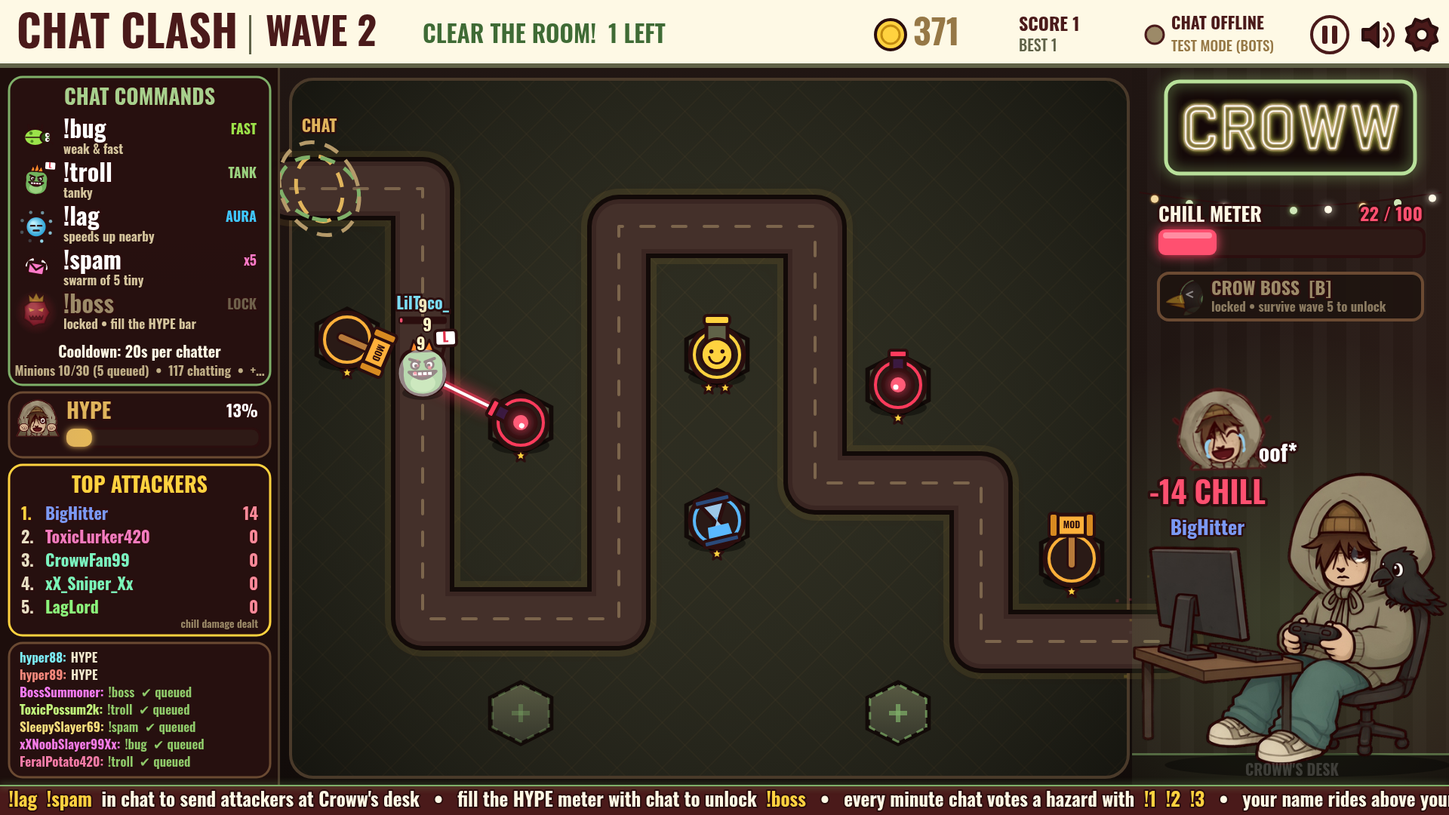
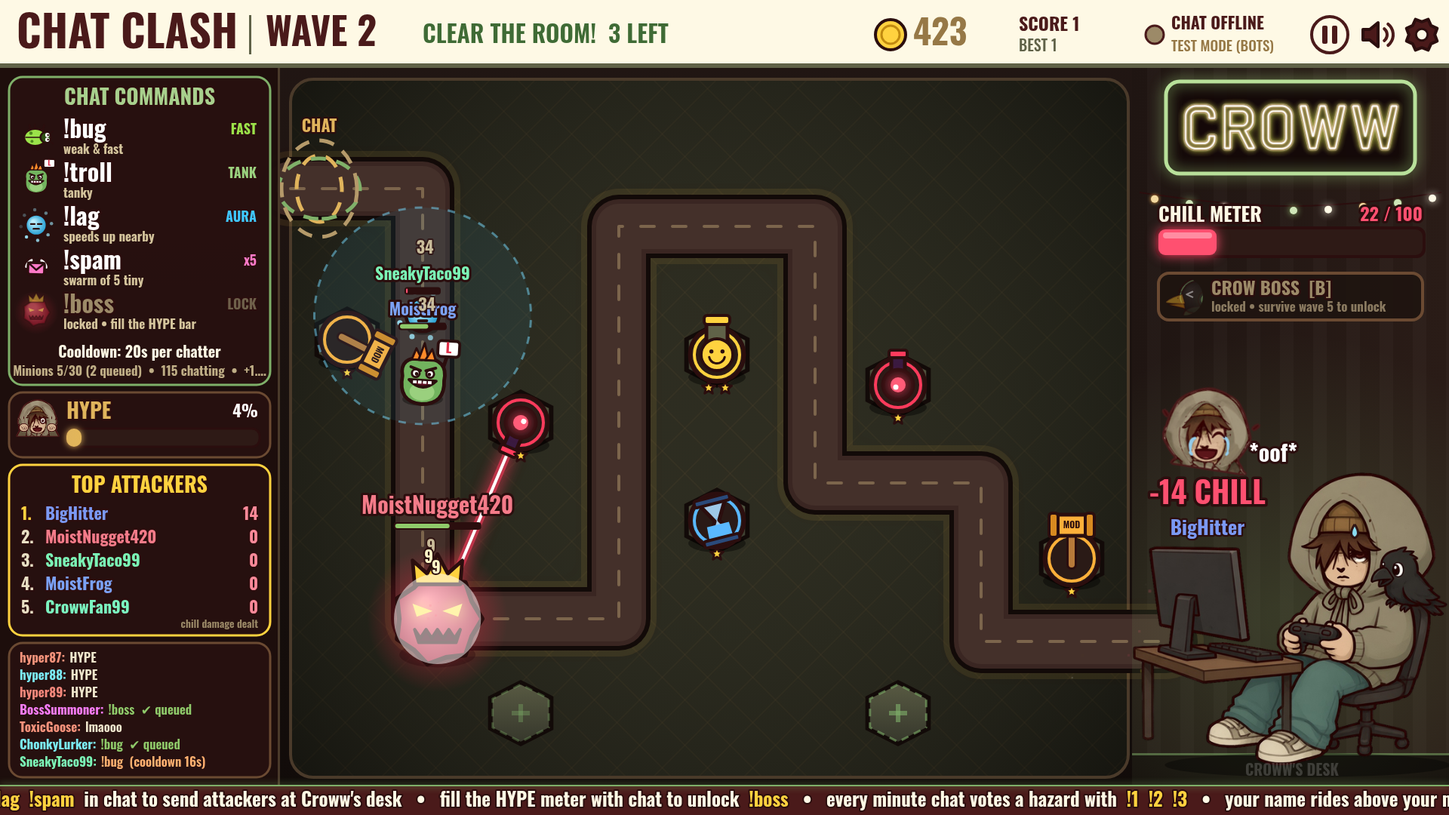
Small chat mode: scale cooldown, command power and hype by active chatters
Reuses the active-chatter count / Small chat mode setting (boost k fades out by 8 chatters):
- per-chatter cooldown 20s -> 7s at 0-3 chatters (never above the Settings value)
- chat commands: !spam up to 8 minions, troll up to +60% HP, bug/lag +40%, spam +30%
- hype gain up to 5x and decay up to 70% slower so !boss is reachable with 1-3 chatters
- SMALL CHAT BOOST % badge on the HUD; !spam count/cooldown shown live
- vote banner shows the vote count (one vote decides / random pick with none: already existed)
- tools/smallchat-sim.js: run length, !boss reachability and vote outcomes at 0/1/3/15 chatters

diff --git a/index.html b/index.html
@@ -73,6 +73,8 @@ const DATA = {
     // small-chat boost: fewer chatters = fewer chat enemies to farm, so the trickle (and a little kill gold) scales up.
     // boost k = 1 at 0 active chatters, fading linearly to 0 at smallChatFull chatters.
     smallChatFull: 8, smallTrickleBonus: 1.5, smallKillBonus: 0.1, activeWindow: 120 },
+  // small-chat scaling of chat power (k = small-chat boost 0..1, same k as the gold boost)
+  smallChat: { cooldown: 7, cooldownCurve: 1.6, hpBoost: { bug: 0.4, troll: 0.6, lag: 0.4, spam: 0.3 }, spamExtra: 3, hypeGain: 4, hypeDecayCut: 0.7 },
   chill: { max: 100, regenOnClear: 6 },
   wave: { firstBuild: 15, build: 12, baseDuration: 20, perWave: 2, maxDuration: 45, hpScale: 0.13, speedScale: 0.012 },
   difficulty: {
@@ -299,11 +301,12 @@ function defeat() {
 }
 
 /* ===================================================================== enemies */
-function spawnEnemy(type, user, isBot, src) {
-  const D = DATA.enemies[type], n = D.count || 1;
-  const hpM = (1 + DATA.wave.hpScale * (G.wave - 1)) * diff().hp, spM = 1 + DATA.wave.speedScale * (G.wave - 1);
+function spawnEnemy(type, user, isBot, src, boost) {
+  boost = boost || 0;   // small-chat boost for chat commands: tougher enemies, more !spam minions
+  const D = DATA.enemies[type], n = type === 'spam' ? spamCount(boost) : (D.count || 1);
+  const hpM = (1 + DATA.wave.hpScale * (G.wave - 1)) * diff().hp * (1 + (DATA.smallChat.hpBoost[type] || 0) * boost), spM = 1 + DATA.wave.speedScale * (G.wave - 1);
   for (let i = 0; i < n; i++) {
-    G.enemies.push({ id: ++G.eid, type, user, isBot, src: src || (isBot ? 'npc' : 'chat'), lead: i === 0, n, hp: D.hp * hpM, maxHp: D.hp * hpM, speed: D.speed * spM * rand(0.95, 1.05), d: -i * 26 - 10, x: -99, y: -99, ang: 0, r: D.r,
+    G.enemies.push({ id: ++G.eid, type, user, isBot, boosted: boost > 0.05, src: src || (isBot ? 'npc' : 'chat'), lead: i === 0, n, hp: D.hp * hpM, maxHp: D.hp * hpM, speed: D.speed * spM * rand(0.95, 1.05), d: -i * 26 - 10, x: -99, y: -99, ang: 0, r: D.r,
       slowT: 0, slowAmt: 0, flash: 0, dead: false, cur: D.speed, wob: Math.random() * 10, dmgAcc: 0 });
   }
   if (!isBot) { stat(G.waveStats, user).spawns++; stat(G.session, user).spawns++; }
@@ -351,18 +354,19 @@ function tryCommand(user, type, src) {
   if (type === 'boss' && !G.bossReady) { addFeed(user, '!boss  (locked - hype ' + Math.floor(G.hype) + '%)', 'lock'); return; }
   const n = DATA.enemies[type].count || 1;
   if (chatLoad() + n > settings.globalCap && type !== 'boss') { addFeed(user, '!' + type + '  (room is full!)', 'cap'); return; }
-  cooldowns[key] = now + settings.userCooldown;
+  cooldowns[key] = now + effCooldown();
   if (type === 'boss') { G.bossReady = false; G.hype = 0; }
   else addHype(DATA.chat.hypePerCmd);
   const live = G.phase === 'wave' && G.waveT < G.waveDur;
-  if (live) { spawnEnemy(type, user, false, src); G.aiBudget = Math.max(0, G.aiBudget - DATA.enemies[type].cost * DATA.ai.chatDiscount); }
-  else G.chatQueue.push({ type, user, src });
+  const boost = type === 'boss' ? 0 : smallChatK();
+  if (live) { spawnEnemy(type, user, false, src, boost); G.aiBudget = Math.max(0, G.aiBudget - DATA.enemies[type].cost * DATA.ai.chatDiscount); }
+  else G.chatQueue.push({ type, user, src, boost });
   addFeed(user, '!' + type + (live ? '  \u2714 sent' : '  \u2714 queued'), 'ok');
   SFX.play('chat');
 }
 function addHype(v) {
   if (!G || G.bossReady || G.phase === 'results' || G.phase === 'defeat') return;
-  G.hype = Math.min(DATA.chat.hypeMax, G.hype + v);
+  G.hype = Math.min(DATA.chat.hypeMax, G.hype + v * hypeGainMult());
   if (G.hype >= DATA.chat.hypeMax) { G.bossReady = true; banner('BOSS UNLOCKED', 'first chatter to type !boss summons it', '#ff4060', 3, 'crowwHype'); SFX.play('unlock'); }
 }
 
@@ -391,6 +395,9 @@ function smallChatK(n) {
   if (settings.smallChat === 'on') return 1;
   return clamp(1 - (n == null ? activeChatters() : n) / DATA.economy.smallChatFull, 0, 1);
 }
+function effCooldown(k) { k = k == null ? smallChatK() : k; const base = settings.userCooldown; return Math.round(Math.min(base, lerp(base, DATA.smallChat.cooldown, clamp(k * DATA.smallChat.cooldownCurve, 0, 1)))); }  // 7s at 0-3 chatters, back to the setting by 8
+function hypeGainMult(k) { return 1 + DATA.smallChat.hypeGain * (k == null ? smallChatK() : k); }
+function spamCount(k) { return DATA.enemies.spam.count + Math.round(DATA.smallChat.spamExtra * k); }
 function goldPerSec(n) { return DATA.economy.trickle + DATA.economy.smallTrickleBonus * smallChatK(n); }
 function killGoldMult(n) { return 1 + DATA.economy.smallKillBonus * smallChatK(n); }
 function onChat(user, text, src) {
@@ -424,7 +431,7 @@ function endVote() {
   const v = G.vote, mx = Math.max(...v.counts), best = [0, 1, 2].filter(i => v.counts[i] === mx), w = pick(best);
   const id = v.opts[w]; G.hazard = { id, t: DATA.vote.hazardDuration };
   const H = DATA.hazards[id];
-  banner(H.name + '!', (mx === 0 ? 'no votes - random pick: ' : 'chat voted: ') + H.desc, H.color, 3);
+  banner(H.name + '!', (mx === 0 ? 'no votes - random pick: ' : 'chat voted (' + v.counts.reduce((a, b) => a + b, 0) + ' vote' + (v.counts.reduce((a, b) => a + b, 0) === 1 ? '' : 's') + '): ') + H.desc, H.color, 3);
   SFX.play('vote'); G.vote = null;
 }
 
@@ -689,7 +696,7 @@ function update(dt) {
         spawnEnemy(ty, DATA.ai.name, true, 'npc'); G.aiBudget -= DATA.enemies[ty].cost; G.aiTimer = G.aiGap * rand(0.7, 1.3);
       }
     }
-    if (G.release.length) { G.releaseT -= dt; if (G.releaseT <= 0) { const q = G.release.shift(); if (q.src === 'bot' && !testModeActive()) { G.releaseT = 0; } else { spawnEnemy(q.type, q.user, false, q.src); G.releaseT = DATA.chat.queueStagger; } } }
+    if (G.release.length) { G.releaseT -= dt; if (G.releaseT <= 0) { const q = G.release.shift(); if (q.src === 'bot' && !testModeActive()) { G.releaseT = 0; } else { spawnEnemy(q.type, q.user, false, q.src, q.boost || 0); G.releaseT = DATA.chat.queueStagger; } } }
     if (G.waveT >= G.waveDur && !G.release.length && !G.enemies.length) waveCleared();
   } else if (G.phase === 'defeat') {
     G.defeatT += dt;
@@ -698,7 +705,7 @@ function update(dt) {
   const playing = G.phase === 'build' || G.phase === 'wave';
   if (playing) {
     G.gold += goldPerSec() * dt;
-    if (!G.bossReady) G.hype = Math.max(0, G.hype - DATA.chat.hypeDecay * dt);
+    if (!G.bossReady) G.hype = Math.max(0, G.hype - DATA.chat.hypeDecay * (1 - DATA.smallChat.hypeDecayCut * smallChatK()) * dt);
     G.voteClock -= dt;
     if (G.voteClock <= 0 && !G.vote) { startVote(); G.voteClock = DATA.vote.interval; }
     if (G.vote) { G.vote.t += dt; if (G.vote.t >= DATA.vote.duration) endVote(); }
@@ -1152,11 +1159,16 @@ function drawSidebar(t) {
     const y = 180 + i * 58, D = DATA.enemies[ty], lock = ty === 'boss' && !G.bossReady;
     ctx.save(); if (lock) ctx.globalAlpha = 0.5; drawEnemyShape(ty, 48, y + 2, ty === 'boss' ? 17 : ty === 'troll' ? 16 : ty === 'spam' ? 11 : 14, t, 0, 0, false); ctx.restore();
     T('!' + ty, 84, y - 7, 32, lock ? '#9c8a68' : ty === 'boss' ? '#ff5070' : '#fff', 'left', { w: 900, sw: 6 });
-    T(ty === 'boss' ? (G.bossReady ? 'UNLOCKED! first one wins' : 'locked \u2022 fill the HYPE bar') : D.desc, 84, y + 19, 17, ty === 'boss' && G.bossReady ? '#ffd23f' : '#d4c49c', 'left', { w: 700, stroke: false });
-    const tag = { spam: ['x5', '#ff7ac8'], troll: ['TANK', '#9ad07e'], bug: ['FAST', '#9be34a'], lag: ['AURA', '#3fc8ff'], boss: [G.bossReady ? 'READY' : 'LOCK', G.bossReady ? '#ffd23f' : '#6e604a'] }[ty];
+    T(ty === 'boss' ? (G.bossReady ? 'UNLOCKED! first one wins' : 'locked \u2022 fill the HYPE bar') : ty === 'spam' ? 'swarm of ' + spamCount(smallChatK()) + ' tiny' : D.desc, 84, y + 19, 17, ty === 'boss' && G.bossReady ? '#ffd23f' : '#d4c49c', 'left', { w: 700, stroke: false });
+    const tag = { spam: ['x' + spamCount(smallChatK()), '#ff7ac8'], troll: ['TANK', '#9ad07e'], bug: ['FAST', '#9be34a'], lag: ['AURA', '#3fc8ff'], boss: [G.bossReady ? 'READY' : 'LOCK', G.bossReady ? '#ffd23f' : '#6e604a'] }[ty];
     T(tag[0], 340, y - 7, 18, tag[1], 'right', { w: 900 });
   });
-  T('Cooldown: ' + settings.userCooldown + 's per chatter', 185, 468, 20, '#fef9e5', 'center', { w: 800, stroke: false });
+  const sk = smallChatK();
+  if (sk > 0.05) {
+    T('Cooldown: ' + effCooldown(sk) + 's', 24, 468, 20, '#fef9e5', 'left', { w: 800, stroke: false });
+    ctx.save(); ctx.shadowBlur = 10 + Math.sin(t * 3) * 4; ctx.shadowColor = '#e0b45c'; rr(166, 455, 180, 26, 13); fs('#4a2f12', 2, '#e0b45c'); ctx.restore();
+    T('SMALL CHAT BOOST ' + Math.round(sk * 100) + '%', 256, 468, 15, '#ffd23f', 'center', { w: 900, stroke: false });
+  } else T('Cooldown: ' + settings.userCooldown + 's per chatter', 185, 468, 20, '#fef9e5', 'center', { w: 800, stroke: false });
   const nAct = activeChatters(), gps = goldPerSec(nAct);
   T(fit('Minions ' + chatLoad() + '/' + settings.globalCap + (G.chatQueue.length ? ' (' + G.chatQueue.length + ' queued)' : '') + '  \u2022  ' + nAct + ' chatting  \u2022  +' + gps.toFixed(1) + 'g/s', 17, 336, 700), 185, 493, 17, gps > DATA.economy.trickle + 0.05 ? '#e0c878' : '#bfae86', 'center', { w: 700, stroke: false });
   panel(12, 520, 346, 86, G.bossReady ? '#ff4060' : '#6b4a32');
@@ -1195,7 +1207,7 @@ function drawSidebar(t) {
 function drawTicker(t) {
   ctx.fillStyle = '#4a1a1a'; ctx.fillRect(0, 1040, 1920, 40);
   ctx.save(); ctx.shadowBlur = 10; ctx.shadowColor = '#7fb069'; ctx.fillStyle = '#7fb069'; ctx.fillRect(0, 1040, 1920, 2); ctx.restore();
-  const s = DATA.ticker.replace('{CD}', settings.userCooldown);
+  const s = DATA.ticker.replace('{CD}', effCooldown());
   ctx.font = `900 25px ${F}`; const w = ctx.measureText(s).width;
   const off = -((t * 110) % w), parts = s.split(/(![a-z0-9]+)/);
   ctx.save(); ctx.beginPath(); ctx.rect(0, 1042, 1920, 38); ctx.clip();
@@ -1583,7 +1595,7 @@ window.CC = {
   get G() { return G; }, DATA, settings, Kick, feed, onChat, testModeActive, stopBots, build, upgrade, startWave, newGame, toggleSettings,
   spawn(t, u) { spawnEnemy(t, u || 'tester', false); },
   step(sec, dt) { dt = dt || 1 / 30; const n = Math.round(sec / dt); for (let i = 0; i < n; i++) update(dt); },
-  manual(v) { manual = v; if (v) view.titleT = 0; }, deployCrowBoss, unlockCrowBoss, crowBossState, view, render(t) { render(t != null ? t : animT); }, setPaused, heldChat, activeChatters, goldPerSec, smallChatK, forceVote() { G.voteClock = 0; }
+  manual(v) { manual = v; if (v) view.titleT = 0; }, deployCrowBoss, unlockCrowBoss, crowBossState, view, render(t) { render(t != null ? t : animT); }, setPaused, heldChat, activeChatters, goldPerSec, smallChatK, effCooldown, hypeGainMult, spamCount, forceVote() { G.voteClock = 0; }
 };
 </script>
 </body></html>

diff --git a/src/2-game.js b/src/2-game.js
@@ -56,11 +56,12 @@ function defeat() {
 }
 
 /* ===================================================================== enemies */
-function spawnEnemy(type, user, isBot, src) {
-  const D = DATA.enemies[type], n = D.count || 1;
-  const hpM = (1 + DATA.wave.hpScale * (G.wave - 1)) * diff().hp, spM = 1 + DATA.wave.speedScale * (G.wave - 1);
+function spawnEnemy(type, user, isBot, src, boost) {
+  boost = boost || 0;   // small-chat boost for chat commands: tougher enemies, more !spam minions
+  const D = DATA.enemies[type], n = type === 'spam' ? spamCount(boost) : (D.count || 1);
+  const hpM = (1 + DATA.wave.hpScale * (G.wave - 1)) * diff().hp * (1 + (DATA.smallChat.hpBoost[type] || 0) * boost), spM = 1 + DATA.wave.speedScale * (G.wave - 1);
   for (let i = 0; i < n; i++) {
-    G.enemies.push({ id: ++G.eid, type, user, isBot, src: src || (isBot ? 'npc' : 'chat'), lead: i === 0, n, hp: D.hp * hpM, maxHp: D.hp * hpM, speed: D.speed * spM * rand(0.95, 1.05), d: -i * 26 - 10, x: -99, y: -99, ang: 0, r: D.r,
+    G.enemies.push({ id: ++G.eid, type, user, isBot, boosted: boost > 0.05, src: src || (isBot ? 'npc' : 'chat'), lead: i === 0, n, hp: D.hp * hpM, maxHp: D.hp * hpM, speed: D.speed * spM * rand(0.95, 1.05), d: -i * 26 - 10, x: -99, y: -99, ang: 0, r: D.r,
       slowT: 0, slowAmt: 0, flash: 0, dead: false, cur: D.speed, wob: Math.random() * 10, dmgAcc: 0 });
   }
   if (!isBot) { stat(G.waveStats, user).spawns++; stat(G.session, user).spawns++; }
@@ -108,18 +109,19 @@ function tryCommand(user, type, src) {
   if (type === 'boss' && !G.bossReady) { addFeed(user, '!boss  (locked - hype ' + Math.floor(G.hype) + '%)', 'lock'); return; }
   const n = DATA.enemies[type].count || 1;
   if (chatLoad() + n > settings.globalCap && type !== 'boss') { addFeed(user, '!' + type + '  (room is full!)', 'cap'); return; }
-  cooldowns[key] = now + settings.userCooldown;
+  cooldowns[key] = now + effCooldown();
   if (type === 'boss') { G.bossReady = false; G.hype = 0; }
   else addHype(DATA.chat.hypePerCmd);
   const live = G.phase === 'wave' && G.waveT < G.waveDur;
-  if (live) { spawnEnemy(type, user, false, src); G.aiBudget = Math.max(0, G.aiBudget - DATA.enemies[type].cost * DATA.ai.chatDiscount); }
-  else G.chatQueue.push({ type, user, src });
+  const boost = type === 'boss' ? 0 : smallChatK();
+  if (live) { spawnEnemy(type, user, false, src, boost); G.aiBudget = Math.max(0, G.aiBudget - DATA.enemies[type].cost * DATA.ai.chatDiscount); }
+  else G.chatQueue.push({ type, user, src, boost });
   addFeed(user, '!' + type + (live ? '  \u2714 sent' : '  \u2714 queued'), 'ok');
   SFX.play('chat');
 }
 function addHype(v) {
   if (!G || G.bossReady || G.phase === 'results' || G.phase === 'defeat') return;
-  G.hype = Math.min(DATA.chat.hypeMax, G.hype + v);
+  G.hype = Math.min(DATA.chat.hypeMax, G.hype + v * hypeGainMult());
   if (G.hype >= DATA.chat.hypeMax) { G.bossReady = true; banner('BOSS UNLOCKED', 'first chatter to type !boss summons it', '#ff4060', 3, 'crowwHype'); SFX.play('unlock'); }
 }
 
@@ -148,6 +150,9 @@ function smallChatK(n) {
   if (settings.smallChat === 'on') return 1;
   return clamp(1 - (n == null ? activeChatters() : n) / DATA.economy.smallChatFull, 0, 1);
 }
+function effCooldown(k) { k = k == null ? smallChatK() : k; const base = settings.userCooldown; return Math.round(Math.min(base, lerp(base, DATA.smallChat.cooldown, clamp(k * DATA.smallChat.cooldownCurve, 0, 1)))); }  // 7s at 0-3 chatters, back to the setting by 8
+function hypeGainMult(k) { return 1 + DATA.smallChat.hypeGain * (k == null ? smallChatK() : k); }
+function spamCount(k) { return DATA.enemies.spam.count + Math.round(DATA.smallChat.spamExtra * k); }
 function goldPerSec(n) { return DATA.economy.trickle + DATA.economy.smallTrickleBonus * smallChatK(n); }
 function killGoldMult(n) { return 1 + DATA.economy.smallKillBonus * smallChatK(n); }
 function onChat(user, text, src) {
@@ -181,7 +186,7 @@ function endVote() {
   const v = G.vote, mx = Math.max(...v.counts), best = [0, 1, 2].filter(i => v.counts[i] === mx), w = pick(best);
   const id = v.opts[w]; G.hazard = { id, t: DATA.vote.hazardDuration };
   const H = DATA.hazards[id];
-  banner(H.name + '!', (mx === 0 ? 'no votes - random pick: ' : 'chat voted: ') + H.desc, H.color, 3);
+  banner(H.name + '!', (mx === 0 ? 'no votes - random pick: ' : 'chat voted (' + v.counts.reduce((a, b) => a + b, 0) + ' vote' + (v.counts.reduce((a, b) => a + b, 0) === 1 ? '' : 's') + '): ') + H.desc, H.color, 3);
   SFX.play('vote'); G.vote = null;
 }
 
@@ -446,7 +451,7 @@ function update(dt) {
         spawnEnemy(ty, DATA.ai.name, true, 'npc'); G.aiBudget -= DATA.enemies[ty].cost; G.aiTimer = G.aiGap * rand(0.7, 1.3);
       }
     }
-    if (G.release.length) { G.releaseT -= dt; if (G.releaseT <= 0) { const q = G.release.shift(); if (q.src === 'bot' && !testModeActive()) { G.releaseT = 0; } else { spawnEnemy(q.type, q.user, false, q.src); G.releaseT = DATA.chat.queueStagger; } } }
+    if (G.release.length) { G.releaseT -= dt; if (G.releaseT <= 0) { const q = G.release.shift(); if (q.src === 'bot' && !testModeActive()) { G.releaseT = 0; } else { spawnEnemy(q.type, q.user, false, q.src, q.boost || 0); G.releaseT = DATA.chat.queueStagger; } } }
     if (G.waveT >= G.waveDur && !G.release.length && !G.enemies.length) waveCleared();
   } else if (G.phase === 'defeat') {
     G.defeatT += dt;
@@ -455,7 +460,7 @@ function update(dt) {
   const playing = G.phase === 'build' || G.phase === 'wave';
   if (playing) {
     G.gold += goldPerSec() * dt;
-    if (!G.bossReady) G.hype = Math.max(0, G.hype - DATA.chat.hypeDecay * dt);
+    if (!G.bossReady) G.hype = Math.max(0, G.hype - DATA.chat.hypeDecay * (1 - DATA.smallChat.hypeDecayCut * smallChatK()) * dt);
     G.voteClock -= dt;
     if (G.voteClock <= 0 && !G.vote) { startVote(); G.voteClock = DATA.vote.interval; }
     if (G.vote) { G.vote.t += dt; if (G.vote.t >= DATA.vote.duration) endVote(); }

diff --git a/tools/smallchat-sim.js b/tools/smallchat-sim.js
@@ -1,0 +1,54 @@
+// Small-chat sim: node tools/smallchat-sim.js [minutes]
+// N chatters talk through the real chat path (onChat(..., 'kick')): commands, chatter, votes, !boss when unlocked.
+// A simple auto-builder plays Croww. Reports run length, !boss reachability, votes, gold, per chat size and mode.
+const puppeteer = require('puppeteer-core'); const http = require('http'), fs = require('fs'), path = require('path');
+const root = path.join(__dirname, '..'), MIN = +(process.argv[2] || 20), SEEDS = +(process.argv[3] || 4);
+const srv = http.createServer((q, r) => { fs.readFile(path.join(root, 'index.html'), (e, d) => { r.writeHead(200, { 'Content-Type': 'text/html' }); r.end(d); }); }).listen(8771);
+(async () => {
+  const browser = await puppeteer.launch({ executablePath: '/usr/bin/google-chrome', headless: true, args: ['--no-sandbox'] });
+  const page = await browser.newPage(); page.on('pageerror', e => console.log('PAGEERROR', e.message));
+  await page.goto('http://localhost:8771/?connect=0&test=off'); await new Promise(r => setTimeout(r, 400));
+  const res = await page.evaluate((MIN, SEEDS) => {
+    CC.manual(true); const out = [];
+    let seed = 1; const rnd = () => (seed = (seed * 16807) % 2147483647) / 2147483647; Math.random = rnd;
+    const V = { votes: 0, resolved: 0, byVote: 0, random: 0, bosses: 0 };
+    const ev = window.endVote; window.endVote = function () { const v = CC.G.vote; const tot = v.counts.reduce((a, b) => a + b, 0); V.resolved++; if (tot) V.byVote++; else V.random++; return ev.apply(this, arguments); };
+    const se = window.spawnEnemy; window.spawnEnemy = function (type) { if (type === 'boss') V.bosses++; return se.apply(this, arguments); };
+    const PADS = [1, 3, 4, 5, 0, 7, 2, 6], TYPES = ['hammer', 'laser', 'slow', 'cannon', 'laser', 'hammer', 'cannon', 'laser'];
+    for (const mode of ['off', 'auto']) for (const n of [0, 1, 3, 15]) {
+      const runs = [];
+      for (let s = 1; s <= SEEDS; s++) {
+        seed = s * 104729 + n; CC.settings.smallChat = mode; CC.settings.testMode = 'off'; CC.settings.npcWaves = true; CC.settings.difficulty = 'normal'; CC.newGame();
+        for (const k in lastSeen) delete lastSeen[k];
+        Object.assign(V, { resolved: 0, byVote: 0, random: 0, bosses: 0 });
+        const users = Array.from({ length: n }, (_, i) => ({ u: 'viewer' + i, next: 1 + rnd() * 10 }));
+        const r = { len: null, wave: 0, unlocks: 0, firstUnlock: null, bosses: 0, votes: 0, byVote: 0, random: 0, gps: 0, cd: 0, spam: 0 };
+        let built = 0, t = 0, wasReady = false; const dt = 1 / 20;
+        while (t < MIN * 60) {
+          const G = CC.G;
+          for (const us of users) if (t >= us.next) {
+            let m;
+            if (G.vote && !G.vote.by[us.u.toLowerCase()] && rnd() < 0.7) m = '!' + (1 + Math.floor(rnd() * 3));
+            else if (G.bossReady && rnd() < 0.8) m = '!boss';
+            else if (rnd() < 0.6) m = ['!bug', '!troll', '!spam', '!lag'][Math.floor(rnd() * 4)];
+            else m = ['lol', 'W', 'gg', 'croww pls', 'KEKW'][Math.floor(rnd() * 5)];
+            CC.onChat(us.u, m, 'kick'); us.next = t + 6 + rnd() * 10;   // a message every 6-16s per chatter
+          }
+          CC.step(dt, dt); t += dt;
+          if (G.bossReady && !wasReady) { r.unlocks++; if (r.firstUnlock == null) r.firstUnlock = Math.round(t); } wasReady = G.bossReady;
+          if (Math.abs(t - 60) < dt / 2) { r.gps = CC.goldPerSec(); r.cd = CC.effCooldown(); r.spam = CC.spamCount(CC.smallChatK()); }
+          if (G.phase === 'defeat' || G.phase === 'results') { r.len = Math.round(t); break; }
+          if (built < 8) { if (G.gold >= CC.DATA.towers[TYPES[built]].cost + (built >= 4 ? 40 : 0) && CC.build(PADS[built], TYPES[built])) built++; }
+          if (built >= 4) { const c = G.towers.map((tw, i) => tw && tw.level < 3 ? { i, c: upCost(tw) } : null).filter(Boolean).sort((a, b) => a.c - b.c)[0]; if (c && G.gold >= c.c + 60) CC.upgrade(c.i); }
+        }
+        Object.assign(r, { wave: CC.G.wave, bosses: V.bosses, votes: V.resolved, byVote: V.byVote, random: V.random }); if (r.len == null) r.len = MIN * 60;
+        runs.push(r);
+      }
+      const avg = k => { const v = runs.map(r => r[k]).filter(x => x != null); return v.length ? Math.round(v.reduce((a, b) => a + b, 0) / v.length * 10) / 10 : '-'; };
+      out.push({ mode, chatters: n, 'cooldown s': runs[0].cd, 'spam x': runs[0].spam, 'gold/s': Math.round(runs[0].gps * 100) / 100, 'run length s': avg('len'), 'survived cap': runs.filter(r => r.len >= MIN * 60).length + '/' + SEEDS, 'wave reached': avg('wave'), 'boss unlocks/run': avg('unlocks'), 'first unlock s': avg('firstUnlock'), 'bosses summoned': avg('bosses'), 'votes resolved': avg('votes'), 'decided by votes': avg('byVote'), 'random (0 votes)': avg('random') });
+    }
+    return out;
+  }, MIN, SEEDS);
+  console.table(res);
+  await browser.close(); srv.close();
+})();

diff --git a/src/4-hud.js b/src/4-hud.js
@@ -63,11 +63,16 @@ function drawSidebar(t) {
     const y = 180 + i * 58, D = DATA.enemies[ty], lock = ty === 'boss' && !G.bossReady;
     ctx.save(); if (lock) ctx.globalAlpha = 0.5; drawEnemyShape(ty, 48, y + 2, ty === 'boss' ? 17 : ty === 'troll' ? 16 : ty === 'spam' ? 11 : 14, t, 0, 0, false); ctx.restore();
     T('!' + ty, 84, y - 7, 32, lock ? '#9c8a68' : ty === 'boss' ? '#ff5070' : '#fff', 'left', { w: 900, sw: 6 });
-    T(ty === 'boss' ? (G.bossReady ? 'UNLOCKED! first one wins' : 'locked \u2022 fill the HYPE bar') : D.desc, 84, y + 19, 17, ty === 'boss' && G.bossReady ? '#ffd23f' : '#d4c49c', 'left', { w: 700, stroke: false });
-    const tag = { spam: ['x5', '#ff7ac8'], troll: ['TANK', '#9ad07e'], bug: ['FAST', '#9be34a'], lag: ['AURA', '#3fc8ff'], boss: [G.bossReady ? 'READY' : 'LOCK', G.bossReady ? '#ffd23f' : '#6e604a'] }[ty];
+    T(ty === 'boss' ? (G.bossReady ? 'UNLOCKED! first one wins' : 'locked \u2022 fill the HYPE bar') : ty === 'spam' ? 'swarm of ' + spamCount(smallChatK()) + ' tiny' : D.desc, 84, y + 19, 17, ty === 'boss' && G.bossReady ? '#ffd23f' : '#d4c49c', 'left', { w: 700, stroke: false });
+    const tag = { spam: ['x' + spamCount(smallChatK()), '#ff7ac8'], troll: ['TANK', '#9ad07e'], bug: ['FAST', '#9be34a'], lag: ['AURA', '#3fc8ff'], boss: [G.bossReady ? 'READY' : 'LOCK', G.bossReady ? '#ffd23f' : '#6e604a'] }[ty];
     T(tag[0], 340, y - 7, 18, tag[1], 'right', { w: 900 });
   });
-  T('Cooldown: ' + settings.userCooldown + 's per chatter', 185, 468, 20, '#fef9e5', 'center', { w: 800, stroke: false });
+  const sk = smallChatK();
+  if (sk > 0.05) {
+    T('Cooldown: ' + effCooldown(sk) + 's', 24, 468, 20, '#fef9e5', 'left', { w: 800, stroke: false });
+    ctx.save(); ctx.shadowBlur = 10 + Math.sin(t * 3) * 4; ctx.shadowColor = '#e0b45c'; rr(166, 455, 180, 26, 13); fs('#4a2f12', 2, '#e0b45c'); ctx.restore();
+    T('SMALL CHAT BOOST ' + Math.round(sk * 100) + '%', 256, 468, 15, '#ffd23f', 'center', { w: 900, stroke: false });
+  } else T('Cooldown: ' + settings.userCooldown + 's per chatter', 185, 468, 20, '#fef9e5', 'center', { w: 800, stroke: false });
   const nAct = activeChatters(), gps = goldPerSec(nAct);
   T(fit('Minions ' + chatLoad() + '/' + settings.globalCap + (G.chatQueue.length ? ' (' + G.chatQueue.length + ' queued)' : '') + '  \u2022  ' + nAct + ' chatting  \u2022  +' + gps.toFixed(1) + 'g/s', 17, 336, 700), 185, 493, 17, gps > DATA.economy.trickle + 0.05 ? '#e0c878' : '#bfae86', 'center', { w: 700, stroke: false });
   panel(12, 520, 346, 86, G.bossReady ? '#ff4060' : '#6b4a32');
@@ -106,7 +111,7 @@ function drawSidebar(t) {
 function drawTicker(t) {
   ctx.fillStyle = '#4a1a1a'; ctx.fillRect(0, 1040, 1920, 40);
   ctx.save(); ctx.shadowBlur = 10; ctx.shadowColor = '#7fb069'; ctx.fillStyle = '#7fb069'; ctx.fillRect(0, 1040, 1920, 2); ctx.restore();
-  const s = DATA.ticker.replace('{CD}', settings.userCooldown);
+  const s = DATA.ticker.replace('{CD}', effCooldown());
   ctx.font = `900 25px ${F}`; const w = ctx.measureText(s).width;
   const off = -((t * 110) % w), parts = s.split(/(![a-z0-9]+)/);
   ctx.save(); ctx.beginPath(); ctx.rect(0, 1042, 1920, 38); ctx.clip();
@@ -494,5 +499,5 @@ window.CC = {
   get G() { return G; }, DATA, settings, Kick, feed, onChat, testModeActive, stopBots, build, upgrade, startWave, newGame, toggleSettings,
   spawn(t, u) { spawnEnemy(t, u || 'tester', false); },
   step(sec, dt) { dt = dt || 1 / 30; const n = Math.round(sec / dt); for (let i = 0; i < n; i++) update(dt); },
-  manual(v) { manual = v; if (v) view.titleT = 0; }, deployCrowBoss, unlockCrowBoss, crowBossState, view, render(t) { render(t != null ? t : animT); }, setPaused, heldChat, activeChatters, goldPerSec, smallChatK, forceVote() { G.voteClock = 0; }
+  manual(v) { manual = v; if (v) view.titleT = 0; }, deployCrowBoss, unlockCrowBoss, crowBossState, view, render(t) { render(t != null ? t : animT); }, setPaused, heldChat, activeChatters, goldPerSec, smallChatK, effCooldown, hypeGainMult, spamCount, forceVote() { G.voteClock = 0; }
 };

diff --git a/src/1-core.js b/src/1-core.js
@@ -16,6 +16,8 @@ const DATA = {
     // small-chat boost: fewer chatters = fewer chat enemies to farm, so the trickle (and a little kill gold) scales up.
     // boost k = 1 at 0 active chatters, fading linearly to 0 at smallChatFull chatters.
     smallChatFull: 8, smallTrickleBonus: 1.5, smallKillBonus: 0.1, activeWindow: 120 },
+  // small-chat scaling of chat power (k = small-chat boost 0..1, same k as the gold boost)
+  smallChat: { cooldown: 7, cooldownCurve: 1.6, hpBoost: { bug: 0.4, troll: 0.6, lag: 0.4, spam: 0.3 }, spamExtra: 3, hypeGain: 4, hypeDecayCut: 0.7 },
   chill: { max: 100, regenOnClear: 6 },
   wave: { firstBuild: 15, build: 12, baseDuration: 20, perWave: 2, maxDuration: 45, hpScale: 0.13, speedScale: 0.012 },
   difficulty: {

diff --git a/README.md b/README.md
@@ -15,7 +15,7 @@ Croww is the defender at his gaming desk (with his crow on his shoulder), and **
 - **Crow Boss (unlockable ally):** the first time you clear **wave 5** you get a *CROW BOSS UNLOCKED* banner (saved in this browser for good). Then press **B** or click the **CROW BOSS** button under the chill meter: the old smoking crow (coffee mug in Clean mode) flies onto the map for 12s, gives +8 chill, and every 1.4s blows a smoke ring that damages and slows (50%) every enemy within range. 90s cooldown. Settings also has an *Unlock Crow Boss now* button.
 - Keys: **S** settings (or the gear icon), **P / Esc** pause (or the pause button in the top bar), **M** mute (or the speaker icon).
 - **Pause** freezes everything (waves, enemies, towers, votes, hazards, hype, chatter cooldowns, Crow Boss). Chat that arrives while paused (Kick or the fake-chat box) is **held** and plays in order when you resume.
-- **Small chat mode** (Settings > Game, Auto by default): with fewer than 8 active chatters (people who chatted in the last 2 min) the gold trickle rises from 1.5/s up to 3.0/s at 0 chatters, and kill gold gets up to +10%. *Always on* = full boost, *Off* = flat 1.5/s.
+- **Small chat mode** (Settings > Game, Auto by default): with fewer than 8 active chatters (people who chatted in the last 2 min) the gold trickle rises from 1.5/s up to 3.0/s at 0 chatters, and kill gold gets up to +10%. The same boost also scales chat power, fading out by 8 chatters: per-chatter cooldown drops to **7s** (at 0-3 chatters), `!spam` sends up to 8 minions, chat enemies get tougher (troll up to +60% HP, others +30-40%), and hype fills up to 5x faster and decays 70% slower so `!boss` is reachable with 1-3 chatters. A **SMALL CHAT BOOST %** badge shows on the HUD while it is active. *Always on* = full boost, *Off* = the original values. Votes: one vote decides; with no votes a random hazard is picked. `node tools/smallchat-sim.js [minutes] [seeds]` simulates 0/1/3/15 chatters.
 - Settings (saved in this browser): channel, chatroom id, Clean mode, cooldown per chatter, max chat enemies, difficulty, test mode and bot rate, a fake-chat box, volume and mute.
 
 ## For chat
